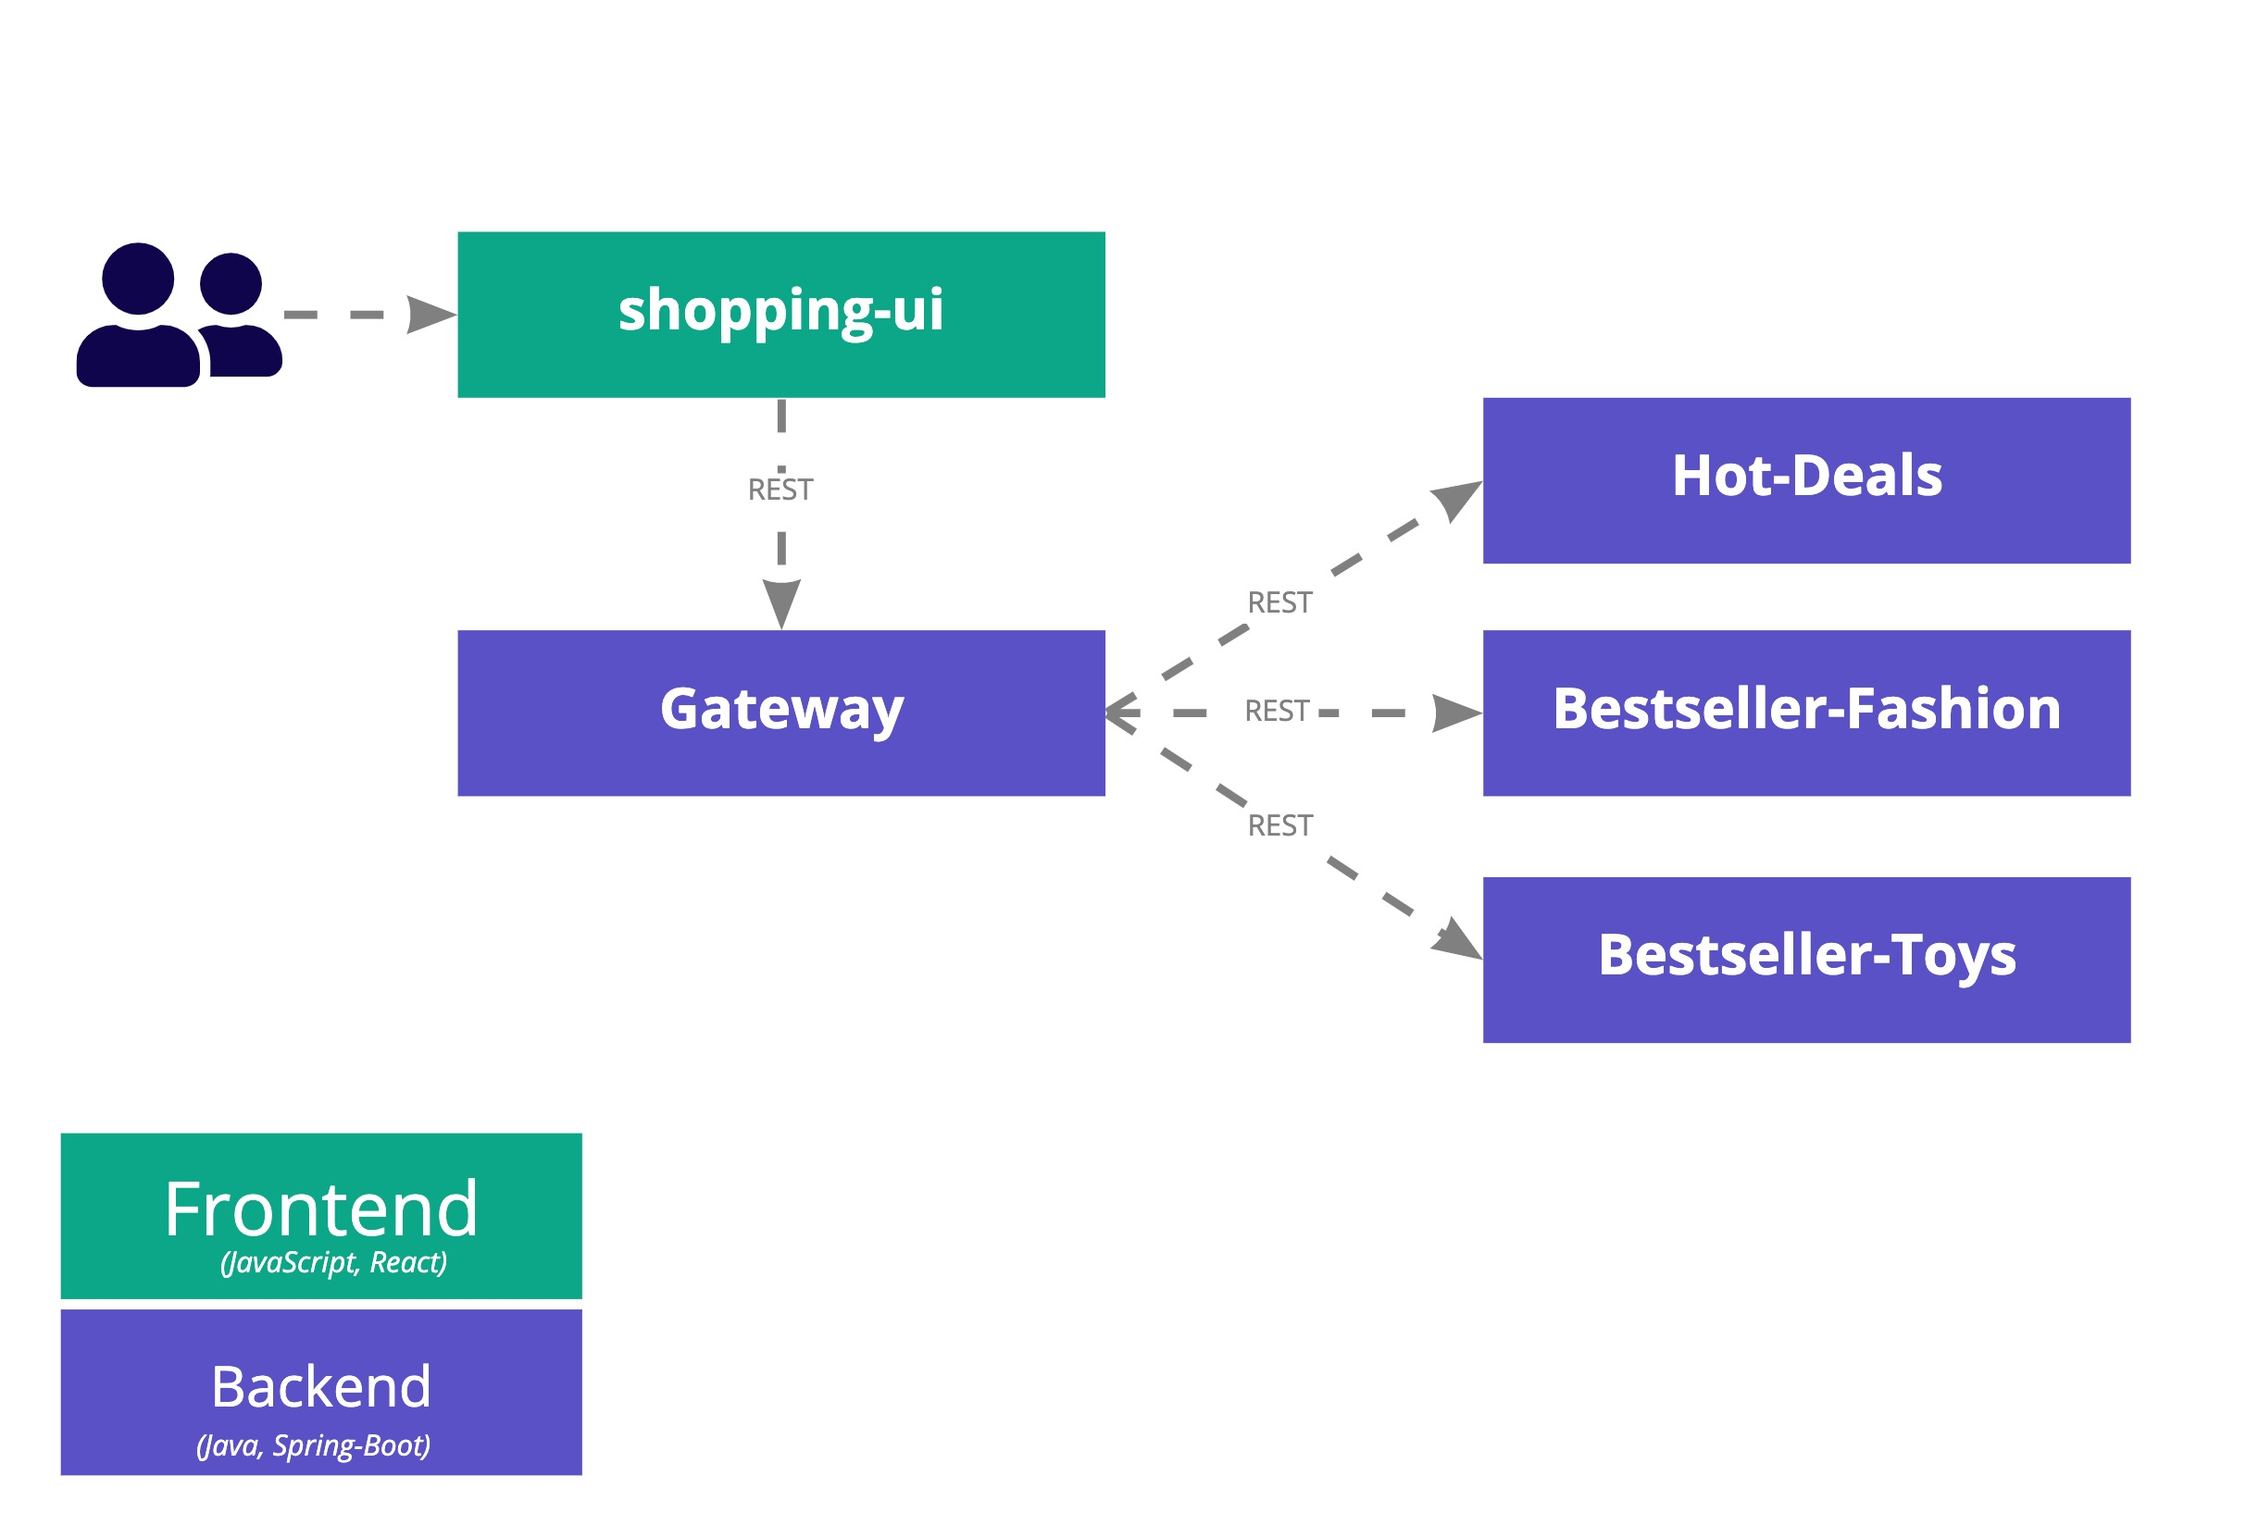
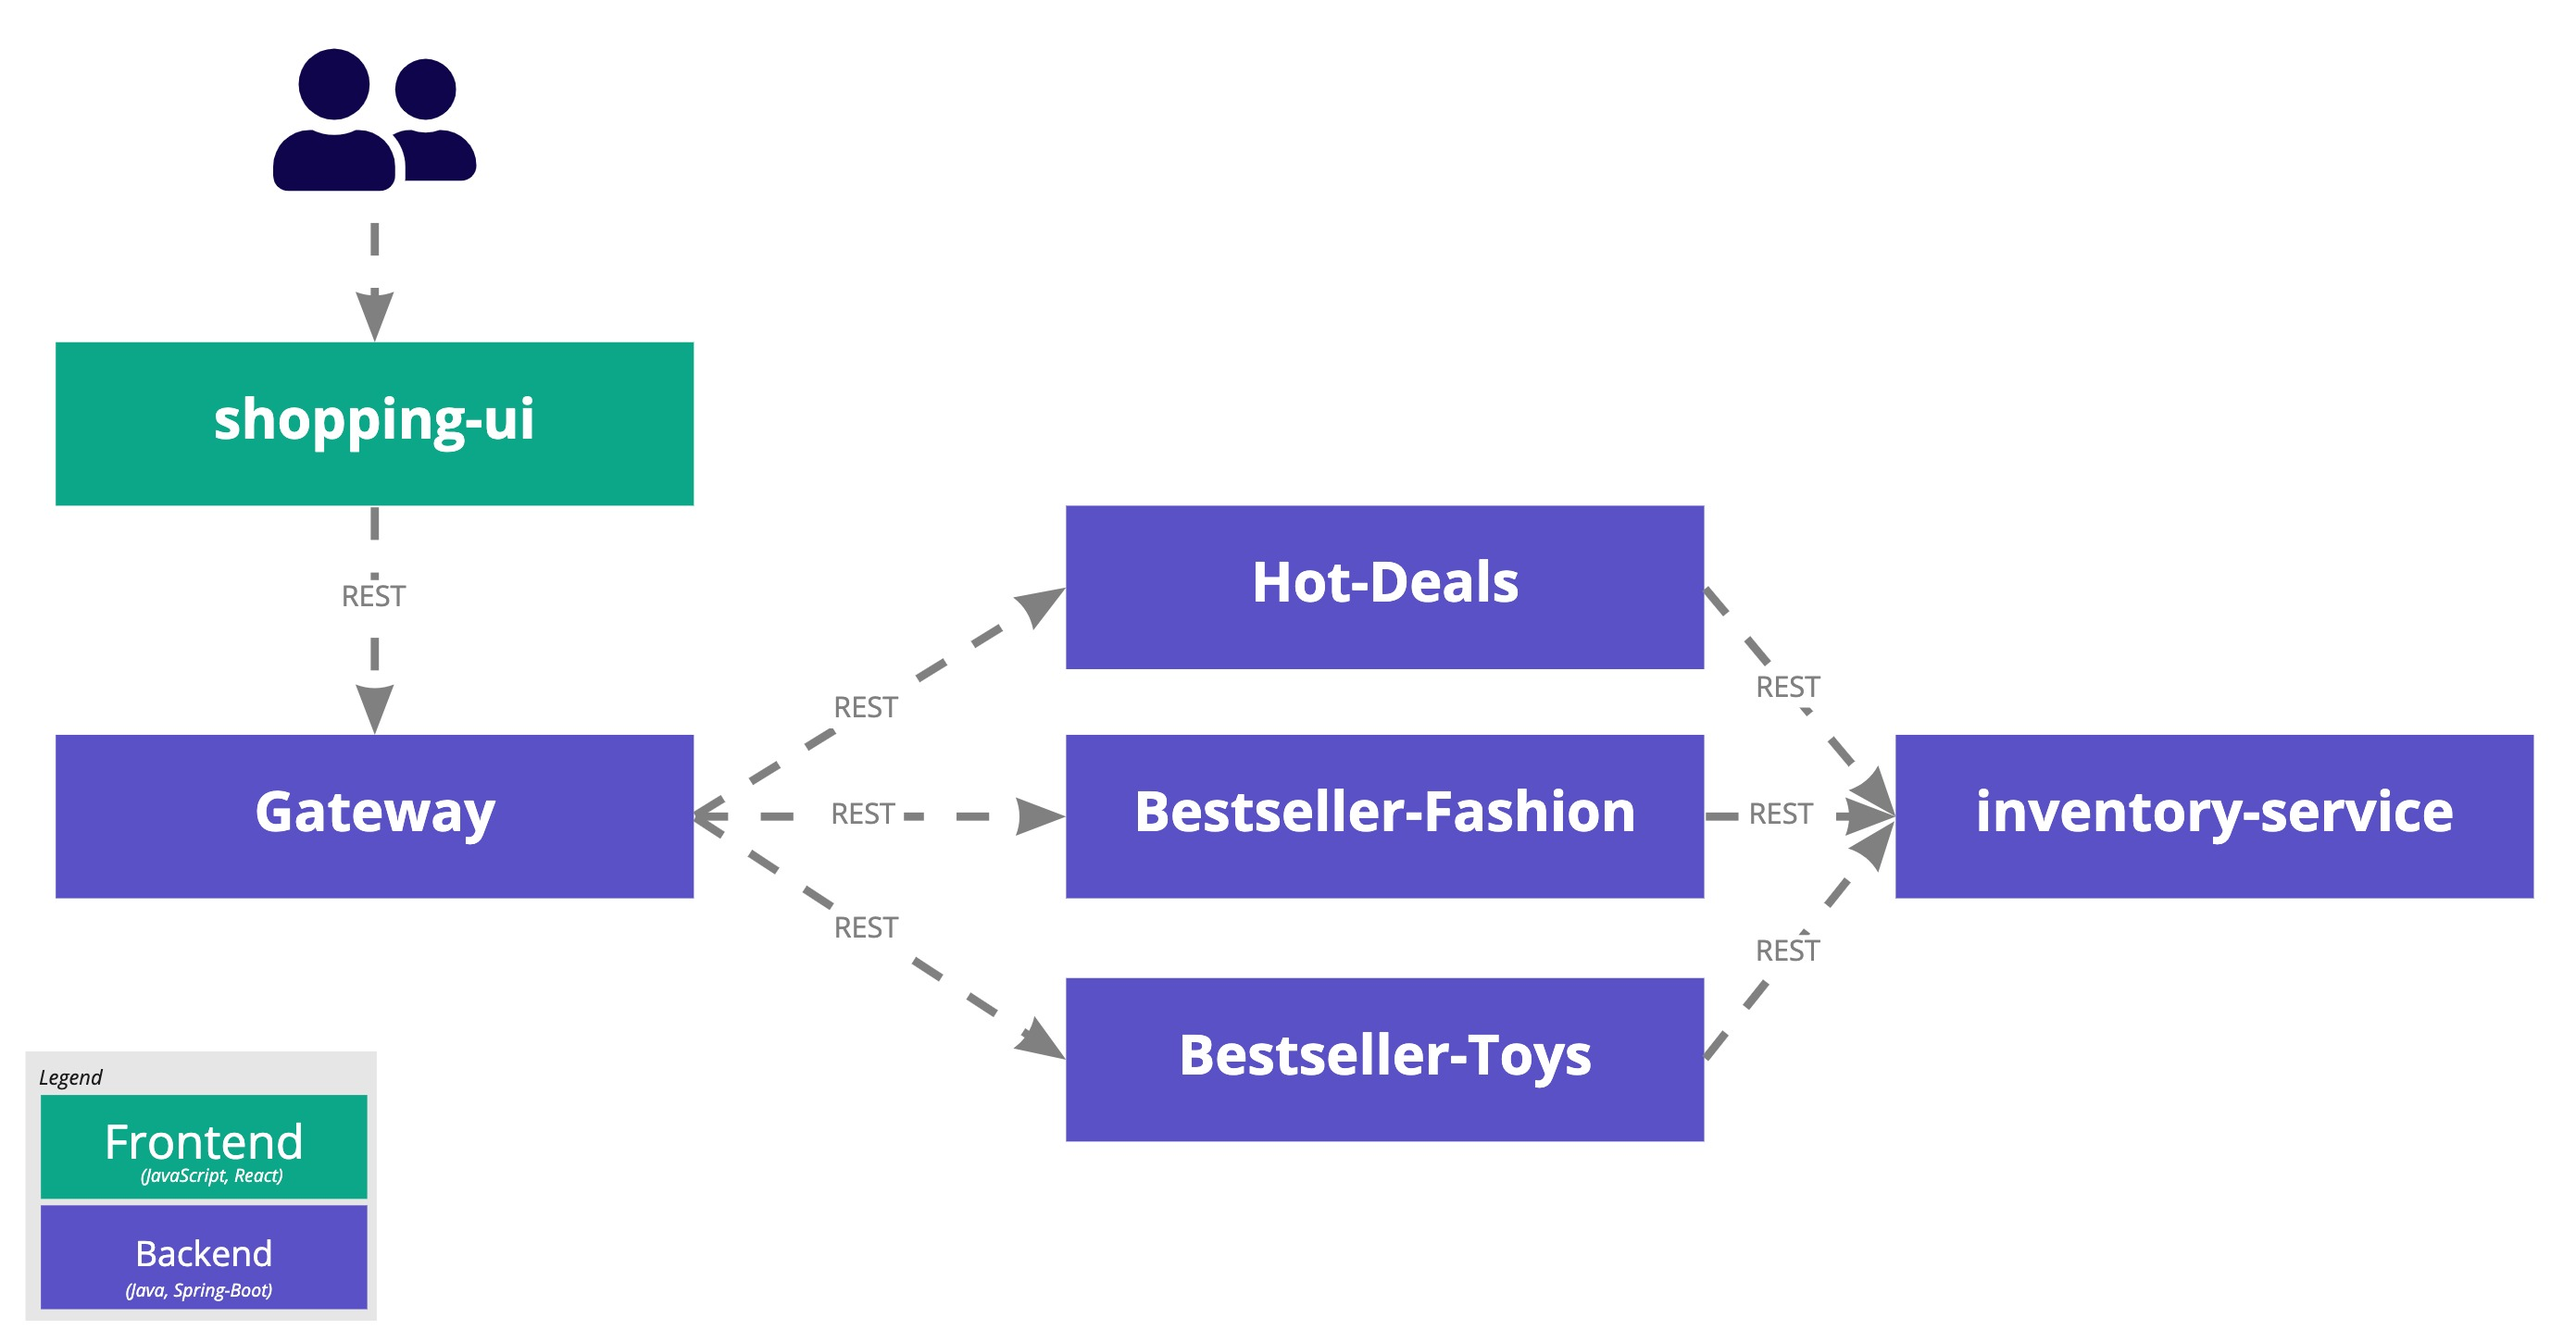
fix: Fixed readme to only explain the application and refer to Steadybit docs for deployment

diff --git a/README.md b/README.md
@@ -2,18 +2,18 @@
 
 ## 📝 Introduction
 
-In order to give you a quick and easy start, we provide you a small demo application. Our shopping demo is a small product catalog provided by 4 distributed
-services (three backend microservice and one frontend).
+We provide a small demo application to give you a quick and easy start into the world of Chaos Engineering.
+This demo application is a product catalog consisting of products from three different categories (toys, fashion and hot-deals).
 
+## High Level Architecture
 ![Architecture](./architecture.jpg)
 
-Each of the 3 backend services (`bestseller-fashion`, `bestseller-toys` and `hot-deals`) provides a list of products, which are aggregated by the `gateway`
-service and compiled in a list. This list of products is accessible from `/products` at the `gateway` component.
+The shopping demo consists of three backend services per each product category (`bestseller-fashion`, `bestseller-toys` and `hot-deals`).
+Each microservice provides a list of products.
+These products are aggregated by the `gateway`-microservice and exposed to the user via `shopping-ui`.
+In addition, each product microservice uses the `inventory-service` to determine stock availability.
 
-Fallbacks, timeouts and circuit breakers are configured within the `gateway` service. These resilience patterns have the task to mitigate failures or
-disturbances and let the `gateway` respond with defined fallbacks. See more about that in the section below, called "Implementation".
-
-## Stack
+## Technical Architecture
 
 All services are based on Spring Boot and use different Spring projects.
 
@@ -24,61 +24,16 @@ All services are based on Spring Boot and use different Spring projects.
 - [Spring Cloud Circuit Breaker](https://spring.io/projects/spring-cloud-circuitbreaker)
 - [Spring Cloud Kubernetes](https://spring.io/projects/spring-cloud-kubernetes)
 
-## 🚀 Getting started
 
-Our demo can be run on different Docker based platforms using the deployment scripts provided. Following types of deployments on the corresponding platforms are
-prepared.
+As mentioned above the `gateway` is the entrypoint for the UI.
 
-### Docker
+### Products REST Endpoint
+The `gateway` provides available products via the `/products`-endpoint which collects all products from each microservices (`bestseller-fashion`, `bestseller-toys` and `hot-deals`).
+This endpoints is implemented in the [ProductsController](blob/master/gateway/src/main/java/com/steadybit/demo/shopping/gateway/ProductsController.java).
+Multiple implementation strategies exists using each different resilience patterns: fallbacks, timeouts and circuit breakers as described subsequently.
 
-```sh
-docker-compose up
-open http://localhost:8080
-```
-
-### Kubernetes (local)
-
-```sh
-minikube start
-minikube addons enable ingress
-kubectl apply -f k8s-manifest.yml
-kubectl apply -f k8s-manifest-minikube-ingress.yml
-open http://<minikube-ip>:8080
-```
-
-### Kubernetes (AWS EKS)
-
-Install `eksctl` CLI
-
-```sh
-brew tap weaveworks/tap
-brew install weaveworks/tap/eksctl
-```
-
-Create a new cluster in:
-
-```sh
-eksctl create cluster -f aws-eks-kubernetes/aws-eks-demo.yaml --alb-ingress-access
-```
-
-Deploy demo application:
-
-```sh
-kubectl apply -f k8s-manifest.yml
-kubectl apply -f k8s-manifest-eks-ingress.yml
-```
-
-## Implementation
-
-As mentioned above the `gateway` is the entrypoint for the UI. It is based on Spring Boot and Spring Cloud projects. We will cover its most important parts in
-this section
-
-### Products REST Endpoint - Basic Implementation
-
-The `gateway` provides basically one endpoint which collects products from different categories (hot-deals, fashion and toys) from the corresponding
-microservices (`bestseller-fashion`, `bestseller-toys` and `hot-deals`). This endpoint is implemented in
-the [ProductsController](blob/master/gateway/src/main/java/com/steadybit/demo/shopping/gateway/ProductsController.java). Below are the relevant parts for the
-basic implementation of this endpoint.
+#### Basic Implementation
+This is the most simplest implementation using neither fallbacks nor timeouts.
 
 ```java
 
@@ -93,8 +48,7 @@ public class ProductsController {
     @RequestMapping(value = { "/products" }, method = RequestMethod.GET)
     public Products getProducts() {
         Products products = new Products();
-        products.setFashion(getProduct(urlFashion));
-        products.setToys(getProduct(urlToys));
+        //...
         products.setHotDeals(getProduct(urlHotDeals));
         return products;
     }
@@ -104,15 +58,12 @@ public class ProductsController {
     }
 }
 ```
+#### Circuit Breaker with Fallback
 
-So, whenever the UI requests an update by calling `/products`-Endpoint the `gateway` microservices collects synchronously the products from each microservice.
-
-### Products REST Endpoint - Circuit Breaker with Fallback
-
-Besides the basic implementation described above, there is also a REST Endpoint using an implemented Circuit Breaker. In order to reach that version of the endpoint, the `gateway`'
-s [ProductsController](blob/master/gateway/src/main/java/com/steadybit/demo/shopping/gateway/ProductsController.java) is called via `/products/circuitbreaker`.
-Whenever the corresponding product-microservice (e.g. `hot-deals`) is not reachable the `/products/fallback` will provide an empty list as an alternative
-response. This way, the UI is simply not showing products from this category but can still show results of the other microservices (e.g `fashion`, `toys`).
+Besides the basic implementation described above, there is also a REST Endpoint using an implemented Circuit Breaker.
+In order to reach that version of the endpoint, the `gateway`'s [ProductsController](blob/master/gateway/src/main/java/com/steadybit/demo/shopping/gateway/ProductsController.java) is called via `/products/circuitbreaker`.
+Whenever the corresponding product-microservice (e.g. `hot-deals`) is not reachable the `/products/fallback` will provide an empty list as an alternative response.
+This way, the UI is simply not showing products from this category but can still show results of the other microservices (e.g `fashion`, `toys`).
 
 ```java
 
@@ -123,19 +74,14 @@ public class ProductsController {
     @GetMapping("/circuitbreaker")
     public Mono<Products> getProductsCircuitBreaker() {
         Mono<List<Product>> hotdeals = getProductCircuitBreaker("/products/hotdeals/circuitbreaker");
-        Mono<List<Product>> fashion = getProductCircuitBreaker("/products/fashion/circuitbreaker");
-        Mono<List<Product>> toys = getProductCircuitBreaker("/products/toys/circuitbreaker");
-
+        //...
         return Mono.zip(hotdeals, fashion, toys)
                 .flatMap(transformer -> Mono.just(new Products(transformer.getT1(), transformer.getT2(), transformer.getT3())));
     }
 
     @GetMapping("/fallback")
     public ResponseEntity<List<Product>> getProductsFallback() {
-        log.info("fallback enabled");
-        HttpHeaders headers = new HttpHeaders();
-        headers.add("fallback", "true");
-        return ResponseEntity.ok().headers(headers).body(Collections.emptyList());
+        return ResponseEntity.ok().headers(new HttpHeaders()).body(Collections.emptyList());
     }
 
     private Mono<List<Product>> getProductCircuitBreaker(String uri) {
@@ -149,18 +95,13 @@ public class ProductsController {
 }
 ```
 
-The routing of the Circuit Breaker is implemented in the Main Class of
-the `gateway`: [GatewayApplication](blob/master/gateway/src/main/java/com/steadybit/demo/shopping/gateway/GatewayApplication.java).
+The routing of the Circuit Breaker is implemented in the `gateway`'s Main Class: [GatewayApplication](blob/master/gateway/src/main/java/com/steadybit/demo/shopping/gateway/GatewayApplication.java).
 
 ````java
 
 @SpringBootApplication
 @EnableDiscoveryClient
 public class GatewayApplication implements WebFluxConfigurer {
-
-    @Value("${rest.endpoint.hotdeals}")
-    private String urlHotDeals;
-
     //...
     @Bean
     public RouteLocator routes(RouteLocatorBuilder builder) {
@@ -179,8 +120,13 @@ public class GatewayApplication implements WebFluxConfigurer {
 
 ### Additional REST Endpoints
 
-There are some additional endpoints which are helpful for HTTP Health Schecks during experiments, such as:
+There are some additional endpoints which are helpful for HTTP Health checks during experiments, such as:
 
 - `/product/hotdeals` to reach `hot-deals` products-list and check it's availability
 - `/product/fashion` to reach `fashion` products-list and check it's availability
 - `/product/toys` to reach `toys` products-list and check it's availability
+
+## Deploying the Application
+
+Our demo can be run on different Docker based platforms using the deployment scripts provided.
+Checkout the [Steadybit Quickstart](https://docs.steadybit.com/quick-start/deploy-example-application) for more details.
